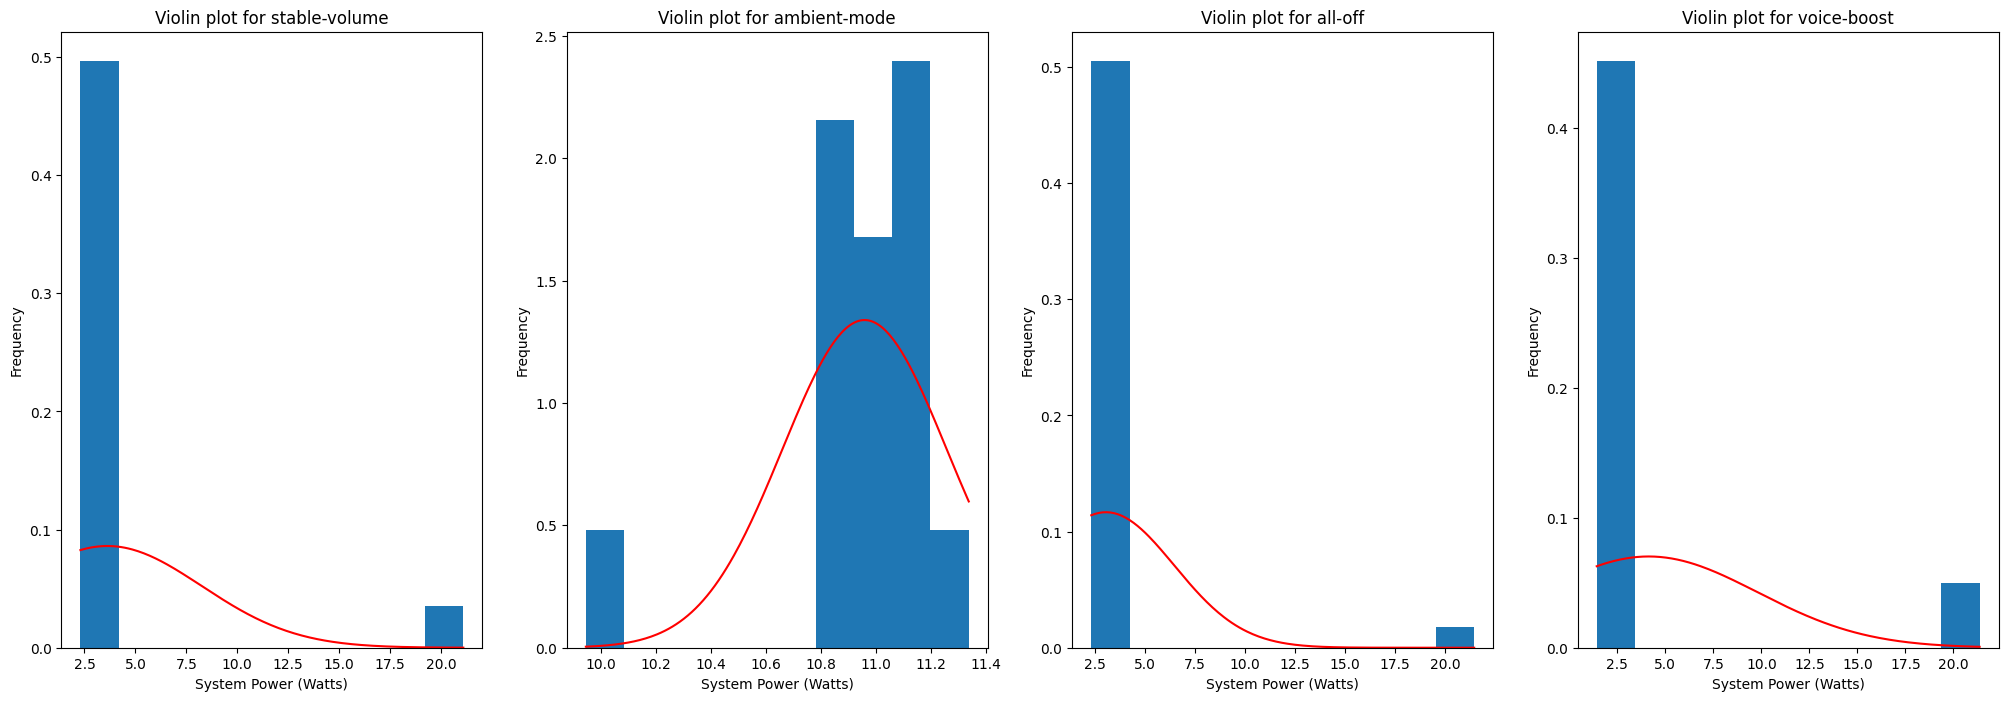
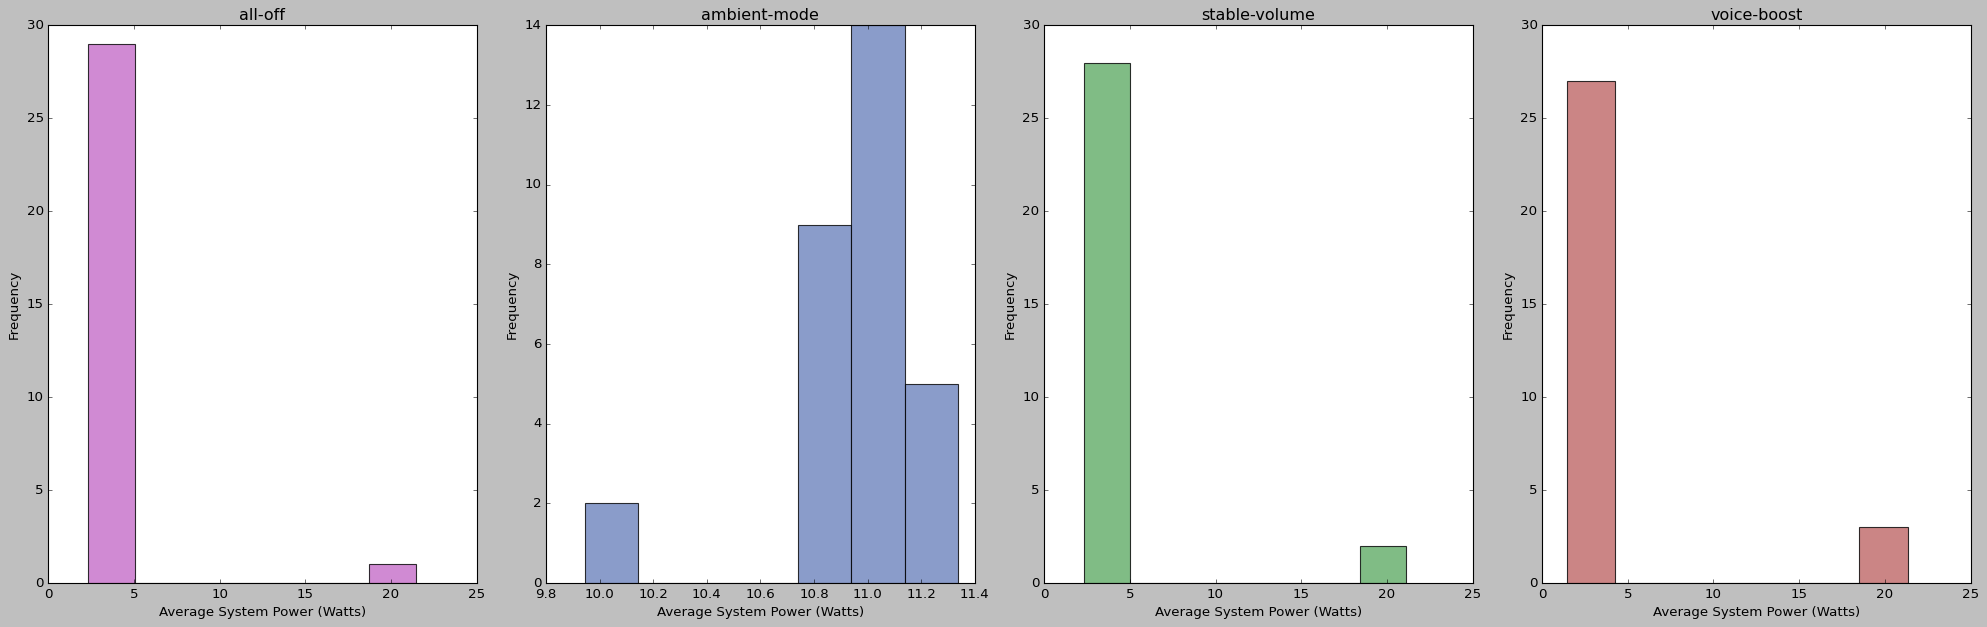
add some final fixes

diff --git a/2026/p1_measuring_software/g34_measuring_youtube.md b/2026/p1_measuring_software/g34_measuring_youtube.md
@@ -176,7 +176,24 @@ Together, these measures provided us with a solid foundation for evaluating whet
 influence client-side energy consumption.
 
 # Results
-Our results have quite a few outliers. In total we have 13 outliers, with `voice boost` being the largest offender. In the [outlier removal section](#outlier-removal) we explain why we decided to use the IQR to remove outliers, and this table shows how the ranges are fitted around the valid data without too much information loss. Many of the outliers were consuming around 20 Watts of power, which can possibly be attributed to YouTube's content downloading for smoother playback, to heavier power consumption as a result of battery levels or due to network issues. However, we have no clear way of pinpointing the exact cause. 
+
+The histogram below shows the Average power consumption measurements (in Watts) for each of the four experimental
+conditions: All Off, Ambient Mode, Stable Volume, and Voice Boost. Each subplot represents one condition, with the
+x-axis indicating Average power consumption (Watts) and the y-axis representing frequency.
+
+<div style="display: flex; flex-direction: column; padding-bottom: 2rem; gap: 1rem; background-color: white;"> <img src="./img/g34_measuring_youtube/Non-Normalised_full_histogram.png" alt="Histogram before outlier removal"> </div>
+
+In total, 13 outliers were detected. Most of the detected outliers corresponded to power consumption values of
+approximately 20 Watts, which is substantially
+higher than the
+typical range observed in the experiment. One likely cause is network instability over Wi-Fi. When the network
+connection fluctuates or bandwidth temporarily drops, YouTube may increase buffering activity to maintain smooth
+playback.
+
+As explained in the [outlier removal section](#outlier-removal) we applied the IQR method to identify and remove
+outliers. The
+table below summarizes the number of removed outliers and the resulting valid ranges, which show that the method
+retained the central mass of the data while removing only extreme deviations, while minimizing information loss.
 
 | Category      | Outliers Removed |   Valid Range  | Total Runs |
 |---------------|------------------|----------------|------------|
@@ -185,20 +202,49 @@ Our results have quite a few outliers. In total we have 13 outliers, with `voice
 | All off       | 1                | [2.18, 2.65]   | 30         |
 | Voice Boost   | 7                | [2.12, 2.40]   | 30         |
 
+After removing the detected outliers, we re-examined the cleaned dataset using violin plots.
 
-
-Further insights can be found in the outlier removed plot. We can see that our results for `all-off` there is still a distinct tail that rises above the other two plots on the lower end of the graph. This result is unexpected as our baseline should be the graph with the least energy consumption. Most of these outliers can be attributed to what was mentioned above, there is also a possibility that the computer had to pull more power due to the battery level, as described in [Limitations and Future Work](#limitations-and-future-work). Later in the section [Statistical Significance](#statistical-significance) we discuss that although this difference exists, on a statistical level these differences are negligible. 
-
-<div style="display: flex; flex-direction: column; margin-bottom: 2rem; padding-bottom: 1rem; gap: 1rem; background-color: white;" >
-  <img src="./img/g34_measuring_youtube/full_violinplot.png" alt="outlier removed Histogram containing all 4 experimental classes">
+<div style="display: flex; flex-direction: column; margin-bottom: 2rem; padding-bottom: 1rem; gap: 1rem; background-color: white;">
+  <img 
+    src="./img/g34_measuring_youtube/full_violinplot.png" 
+    alt="outlier removed Histogram containing all 4 experimental classes"
+    style="width: 80%;"
+  >
 </div>
 
+Each violin represents one experimental condition. The vertical axis shows power consumption (Watts), while the width of
+each violin reflects the density of observations. Ambient Mode clearly stands out, with values concentrated between
+approximately 10.8 W and 11.3 W, whereas the remaining
+conditions range between roughly 2.2 W and 2.6 W.
+Note that the y-axis is visually broken between 2.8 W and 10.6 W to allow all conditions to be displayed in a single
+figure while preserving their relative ranges. The distributions are relatively compact within their respective valid
+intervals. Most conditions appear approximately
+bell-shaped. However, the All Off condition still exhibits a slightly elevated upper tail compared to others.
 
-The histograms below give us an insight into the type of statistical tests we can run, as they highlight the normality of our data. We can see that all classes on the lower end of the violin plot have a right tail indicating outliers with high wattage, while the `ambient mode` has a left tail indicating low wattage outliers. After the outlier removal every class can be considered a normal distribution except for `all-off` which as mentioned above seems to have outliers within a smaller range as well. We can clearly see this with the gap between the lower end and the upper end of the graph. 
+To further assess distributional properties, we plotted histograms for each condition after outlier removal,
+where the red curve shows the fitted normal probability density function.
+
 <div style="display: flex; flex-direction: column; padding-bottom: 2rem; gap: 1rem; background-color: white;">
-  <img src="./img/g34_measuring_youtube/Non-Normalised_full_histogram.png" alt="Non-outlier removed Violinplot containing all 4 experimental classes">
   <img src="./img/g34_measuring_youtube/full_histogram.png" alt="outlier removed Histogram containing all 4 experimental classes">
 </div>
+
+While most conditions visually resemble normal distributions, the All Off condition exhibits a slight right tail,
+indicating mild deviation from normality. This is
+somewhat unexpected, as the baseline condition should theoretically consume the least energy. One possible explanation
+is a relatively small sample size. Potentially also that the computer had to pull more power due to the
+battery level, as described in [Limitations and Future Work](#limitations-and-future-work). Later in the
+section [Statistical Significance](#statistical-significance) we discuss that although this difference exists, on a
+statistical level these differences are negligible.
+
+To formally evaluate normality, we conducted the Shapiro–Wilk test for each condition. The results are presented in the
+table below and confirm our visual observations from the histogram and violin plots.
+
+| Category      | p-value | Normality Conclusion |
+|---------------|---------|----------------------|
+| All Off       | 0.00057 | Not Normal           |
+| Ambient Mode  | 0.41224 | Normal               |
+| Stable Volume | 0.24914 | Normal               |
+| Voice Boost   | 0.68703 | Normal               |
 
 ## Statistical Significance
 Because the energy consumption data did not consistently satisfy normality assumptions after outlier removal, we used the Mann–Whitney U test to compare each feature condition against the baseline (all-off). This non-parametric test does not assume normally distributed data and is therefore appropriate for comparing the central tendency of skewed or irregular distributions.
@@ -222,13 +268,11 @@ Stable Volume does not show a statistically significant difference compared to t
 
 Statistical significance alone is not sufficient to judge the impact of a feature on energy consumption. To assess whether the observed differences are relevant in practice, we examined effect sizes using three measures: the median difference, the median-based percentage change, and the percentage of pairs.
 
-| Effect Size Metric        | Stable Volume | Ambient Mode | Voice Boost |
-|---------------------------|---------------|--------------|-------------|
-| Median Difference (W)     | -0.019        | 8.671        | -0.130      |
-| Percentage Change (%)     | -0.782 %      | 365.328 %    | -5.478 %    |
-| Percentage of Pairs (%)   | 35.38 %       | 100.00 %     | 0.15 %      |
-
-
+| Effect Size Metric           | Stable Volume | Ambient Mode | Voice Boost |
+|------------------------------|---------------|--------------|-------------|
+| Median Difference (W)        | -0.019        | 8.671        | -0.130      |
+| Median Percentage Change (%) | -0.782 %      | 365.328 %    | -5.478 %    |
+| Percentage of Pairs (%)      | 35.38 %       | 100.00 %     | 0.15 %      |
 
 
 For Ambient Mode, all three metrics indicate a clear and consistent increase in system power usage compared to the baseline. The median power draw increases by 8.67 W, corresponding to a 365% median-based increase, and 100% of Ambient Mode trials consume more power than baseline trials. This pattern indicates a sustained increase in energy consumption rather than an effect driven by a small number of extreme measurements.
